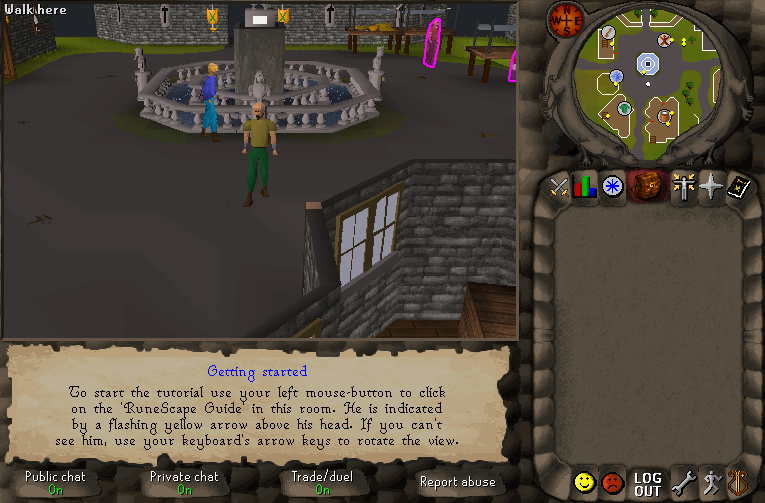
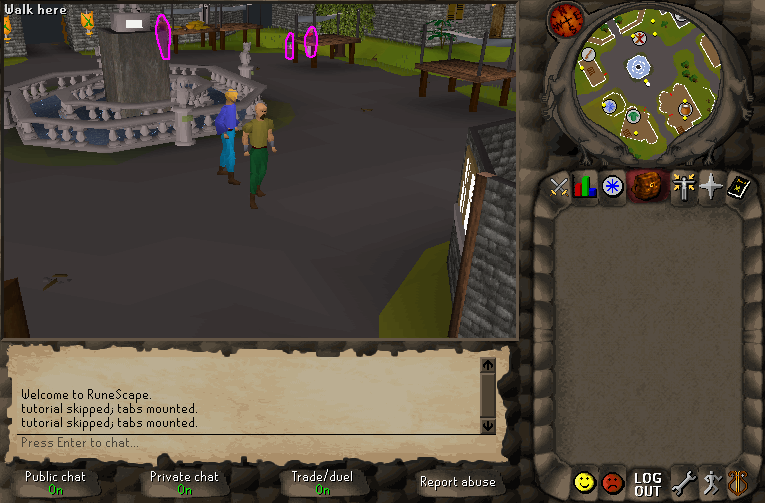
EH-LIVE-TAG-OFFSCREEN: give a live drive a camera it can aim
The entity highlighter's cs1live capture tagged three LostCity npcs and
photographed two of them, the second cut by the viewport's right edge at
x=515 with eight columns inside it. The job comment argued the three
"cannot leave the forward view" from their wanderrange, which bounds
where an npc WALKS and says nothing about where the camera LOOKS.

The plugin is not at fault and neither is the bridge. Re-run with
TORIRS_TRACE_PLUGIN_WORLD=1 and all THREE hulls are emitted on every
frame, on three distinct scene elements, 16-30 segments each; two of
them simply project past the right edge. The trio stands 11-12 tiles
north and 5-8 tiles EAST of the only teleport that lane has, and the
follow camera resets to yaw 0, due north.

No drive could say otherwise. TORIRS_SIM_CAMERA_YAW existed and was
dead: it runs in the pre-loop harness block, so before login, before the
tutorial skip and before the teleport; and it wrote world_camera.yaw,
which the follow step rebuilds from orbit.yaw on the next cycle, so even
where it fired it was one render deep. It now parks orbit.yaw with the
yaw velocity zeroed, and TORIRS_SIM_CAMERA_YAW_FRAME applies the park
from a main-loop frame -- the only placement a lane that has to log in
can use. With the frame variable set the pre-loop block stands down, so
the two never both spend frames on a clock that starts at 1 ms.

Measured, viewport 4,4 512x334:

  before  2 hulls  x 423-440 (margin r 75)  x 508-515 (margin r 0)
[…]

diff --git a/src/main.c b/src/main.c
@@ -2537,6 +2537,67 @@ frame_loop_step(void)
                 }
             }
 
+            /*
+             * TORIRS_SIM_CAMERA_YAW="<0..2047>" with
+             * TORIRS_SIM_CAMERA_YAW_FRAME=N: park the follow camera at a known
+             * yaw from loop frame N on, so a world overlay can be photographed
+             * with its subject IN the viewport instead of beside it.
+             *
+             * The yaw lives in `orbit`, not in world_camera: the follow step
+             * rebuilds world_camera.yaw from orbit.yaw every cycle, so a park
+             * written to world_camera survives exactly one render. The
+             * pre-loop block below got away with that because it renders and
+             * exits; from inside the loop it would simply not turn the camera.
+             * yaw_velocity goes to zero with it -- the reference's camera
+             * coasts, and a park that leaves a velocity behind drifts away
+             * from the angle the drive asked for over the frames that follow.
+             *
+             * This is the lever the entity-highlighter's live capture needed
+             * and did not have. Its three tagged npcs stand 11-12 tiles north
+             * and 5-8 tiles east of the only teleport that lane can reach;
+             * `wanderrange` keeps them from walking off, which is what the job
+             * comment argued, but nothing kept them in FRONT of a camera whose
+             * reset yaw looks north -- two of the three projected past the
+             * viewport's right edge and the drive had no way to say otherwise.
+             */
+            {
+                static int yaw_done = 0;
+                static long yaw_frame = -1;
+                if( yaw_frame < 0 )
+                {
+                    char const* at = getenv("TORIRS_SIM_CAMERA_YAW_FRAME");
+                    yaw_frame = at ? strtol(at, NULL, 0) : 1;
+                    if( yaw_frame < 1 )
+                        yaw_frame = 1;
+                }
+                if( !yaw_done && getenv("TORIRS_SIM_CAMERA_YAW") &&
+                    getenv("TORIRS_SIM_CAMERA_YAW_FRAME") && frame_count >= yaw_frame )
+                {
+                    yaw_done = 1;
+                    app.orbit.yaw = ToriDraw_NormalizeAngle(
+                        (int)strtol(getenv("TORIRS_SIM_CAMERA_YAW"), NULL, 0));
+                    app.orbit.yaw_velocity = 0;
+                    /*
+                     * Yaw only, and the pitch is deliberately NOT a second
+                     * knob beside it. Measured on this lane: the reset pitch
+                     * of 148 puts the highlighter's trio at y=13 and a park at
+                     * 190 puts them off the top of the viewport at y=4, so the
+                     * pitch band's flat end (128) is worth about four pixels
+                     * of headroom and its steep end throws the subject away
+                     * entirely. A knob that cannot move the picture in the
+                     * direction a drive needs is a knob nobody can use.
+                     *
+                     * REPORT for the same reason sim_cmd is: a drive that
+                     * asked for an angle wants the angle in the optimized
+                     * build's log, not only in a debug one.
+                     */
+                    TORIRS_REPORT(
+                        "sim_camera_yaw: frame %ld parked at %d\n",
+                        (long)frame_count,
+                        app.orbit.yaw);
+                }
+            }
+
             /* TORIRS_SIM_CLICK_AT="frame,x,y[,right][;frame,x,y...]":
              * inject a mouse click at the given main-loop frame — the
              * live-server harness (the pre-loop SIM_MOUSE_CLICK path runs
@@ -5577,8 +5638,15 @@ main(
 
     /* TORIRS_SIM_CAMERA_YAW=<0..2047>: park the camera at a yaw and run a frame,
      * so the compass/minimap can be screenshotted at known angles. The in-app
-     * yaw keys are the arrows, which the key sim above cannot send. */
-    if( getenv("TORIRS_SIM_CAMERA_YAW") )
+     * yaw keys are the arrows, which the key sim above cannot send.
+     *
+     * TORIRS_SIM_CAMERA_YAW_FRAME says the drive wants the park applied from a
+     * MAIN-LOOP frame instead -- the only placement a lane that has to log in,
+     * skip a tutorial and teleport can use -- and that block owns the variable
+     * then. Running both would spend two extra frames here on a clock that
+     * starts at 1 ms, which on a live lane is the session teardown the shots
+     * README dates its broken hover captures by. */
+    if( getenv("TORIRS_SIM_CAMERA_YAW") && !getenv("TORIRS_SIM_CAMERA_YAW_FRAME") )
     {
         struct LibToriRS_Input yaw_storage;
         struct LibToriRS_Input* yaw_input = LibToriRS_Input_Init(&yaw_storage, 0);
@@ -5589,8 +5657,15 @@ main(
         {
             if( frame == 1 )
             {
-                app.world_camera.yaw =
+                /* Both, and orbit is the one that lasts: the follow step
+                 * rebuilds world_camera.yaw from orbit.yaw, so a park written
+                 * only to world_camera is gone by the next cycle. This path
+                 * renders immediately and never saw that, which is exactly why
+                 * the in-loop twin above could not reuse it. */
+                app.orbit.yaw =
                     ToriDraw_NormalizeAngle((int)strtol(getenv("TORIRS_SIM_CAMERA_YAW"), NULL, 0));
+                app.orbit.yaw_velocity = 0;
+                app.world_camera.yaw = app.orbit.yaw;
                 TORIRS_LOG("sim_camera_yaw: %d\n", app.world_camera.yaw);
             }
             LibToriRS_Input_Begin(yaw_input, yaw_ms);

diff --git a/tools/porcelain_gate/shots/hull_margin.py b/tools/porcelain_gate/shots/hull_margin.py
@@ -1,0 +1,124 @@
+#!/usr/bin/env python3
+"""Are the highlighter's hulls IN the picture, and by how much?
+
+    python3 hull_margin.py <shot.png> --expect 3 [--colour '#FF00FF']
+                           [--viewport x,y,w,h] [--min-margin 4]
+
+The entity highlighter's live capture tagged three npcs and photographed two,
+and the second of those two was cut by the viewport's right edge with eight
+columns inside it. Nothing in the run said so. The config write reported
+applied=1 -- tagging a species that is not in front of you is a perfectly valid
+tag -- the plugin emitted three hulls every frame, and the picture, read whole
+at 765x503, looked like a highlighter that works. It took a connected-component
+scan to find that one of the three had never been in frame at all.
+
+So the claim a capture of a world overlay makes is not "there is ink". It is
+"there are N closed shapes and every one of them is clear of the edges", and
+that is a measurement, not an impression:
+
+  * an exact-colour mask, because the outline is drawn at the plugin's own
+    configured colour and nothing else in a scene is #FF00FF;
+  * 8-connected components, because a hull is one closed ring;
+  * the margin from each side of the WORLD VIEWPORT, not from the window. A
+    hull can sit inside a 765x503 frame and still be cut, because the 2004
+    frame's viewport ends at x=515 and the sidebar starts there.
+
+A cluster that touches an edge is reported as CUT and fails, because an outline
+whose closing edge was clipped away is exactly what the defect looked like.
+
+The viewport rect is an argument and has no default that fits every lane: the
+2004 fixed frame is 4,4,512,334 and the resizable toplevels are not. Read it
+off the lane rather than assuming this one.
+"""
+
+import argparse
+import sys
+
+from PIL import Image
+
+# The 2004 fixed frame's world viewport -- the lane this was written for.
+CS1_VIEWPORT = (4, 4, 512, 334)
+
+
+def clusters(image, colour):
+    """8-connected components of the exact-colour mask."""
+    width, height = image.size
+    pixels = image.load()
+    mask = {
+        (x, y)
+        for y in range(height)
+        for x in range(width)
+        if pixels[x, y] == colour
+    }
+    seen = set()
+    found = []
+    for start in mask:
+        if start in seen:
+            continue
+        stack = [start]
+        seen.add(start)
+        component = []
+        while stack:
+            cell = stack.pop()
+            component.append(cell)
+            for dx in (-1, 0, 1):
+                for dy in (-1, 0, 1):
+                    neighbour = (cell[0] + dx, cell[1] + dy)
+                    if neighbour in mask and neighbour not in seen:
+                        seen.add(neighbour)
+                        stack.append(neighbour)
+        xs = [cell[0] for cell in component]
+        ys = [cell[1] for cell in component]
+        found.append((len(component), min(xs), max(xs), min(ys), max(ys)))
+    found.sort(key=lambda entry: (entry[1], entry[3]))
+    return found
+
+
+def parse_colour(text):
+    text = text.lstrip("#")
+    return tuple(int(text[i:i + 2], 16) for i in (0, 2, 4))
+
+
+def main(argv):
+    parser = argparse.ArgumentParser(description=__doc__)
+    parser.add_argument("shot")
+    parser.add_argument("--expect", type=int, required=True,
+                        help="how many hulls the drive tagged")
+    parser.add_argument("--colour", default="#FF00FF")
+    parser.add_argument("--viewport", default=",".join(str(v) for v in CS1_VIEWPORT),
+                        help="x,y,w,h of the world viewport on this lane")
+    parser.add_argument("--min-margin", type=int, default=4,
+                        help="pixels a hull must keep clear of every viewport edge")
+    args = parser.parse_args(argv)
+
+    view_x, view_y, view_w, view_h = (int(v) for v in args.viewport.split(","))
+    right, bottom = view_x + view_w - 1, view_y + view_h - 1
+
+    image = Image.open(args.shot).convert("RGB")
+    found = clusters(image, parse_colour(args.colour))
+
+    print(f"{args.shot} {image.size[0]}x{image.size[1]} "
+          f"viewport {view_x},{view_y} {view_w}x{view_h}")
+    failures = []
+    for size, x0, x1, y0, y1 in found:
+        margins = (x0 - view_x, right - x1, y0 - view_y, bottom - y1)
+        worst = min(margins)
+        state = "CUT" if worst < 0 else ("THIN" if worst < args.min_margin else "ok")
+        print(f"  {size:5d} px  x {x0}-{x1}  y {y0}-{y1}  "
+              f"margin l/r/t/b {margins[0]}/{margins[1]}/{margins[2]}/{margins[3]}  {state}")
+        if state != "ok":
+            failures.append(f"a hull at x {x0}-{x1} y {y0}-{y1} is {worst} px from an edge")
+
+    if len(found) != args.expect:
+        failures.append(f"expected {args.expect} hull(s), found {len(found)}")
+    if failures:
+        for failure in failures:
+            print(f"FAIL: {failure}")
+        return 1
+    print(f"OK: {len(found)} hull(s), all clear of the viewport by "
+          f"{args.min_margin} px or more")
+    return 0
+
+
+if __name__ == "__main__":
+    sys.exit(main(sys.argv[1:]))

diff --git a/src/render/test/world_camera_orbit_test.c b/src/render/test/world_camera_orbit_test.c
@@ -288,6 +288,55 @@ test_yaw_wraps_and_pitch_does_not(void)
 }
 
 static void
+test_a_parked_angle_holds_for_the_rest_of_a_capture(void)
+{
+    struct WorldCameraOrbit parked;
+    struct WorldCameraOrbit coasting;
+    struct WorldCameraLimits const limits = osrs_limits();
+    struct WorldCameraKeys const keys = no_keys();
+    int i;
+
+    printf("TEST: an angle parked with no velocity holds; one parked over a velocity does not\n");
+
+    /*
+     * The property TORIRS_SIM_CAMERA_YAW depends on, and the reason it writes
+     * `orbit` and zeroes the velocity rather than writing world_camera.yaw.
+     *
+     * A capture parks the camera at a chosen angle hundreds of frames before
+     * the frame it photographs -- the entity highlighter's live shot parks at
+     * loop frame 1500 and the BMP is written at 2200 -- so "the camera is
+     * where the drive put it" is a claim about seven hundred cycles, not about
+     * the cycle after the write. Nothing here is a still frame can check: a
+     * camera that creeps two units a cycle looks exactly like a camera that
+     * does not, until the subject leaves the viewport.
+     */
+    WorldCameraOrbit_Reset(&parked);
+    parked.yaw = 1878;
+    parked.pitch = 148;
+    for( i = 0; i < 700; i++ )
+        WorldCameraOrbit_StepAngles(&parked, &keys, &limits);
+    CHECK(parked.yaw == 1878, "a parked yaw drifted to %d over 700 cycles", parked.yaw);
+    CHECK(parked.pitch == 148, "a parked pitch drifted to %d over 700 cycles", parked.pitch);
+
+    /*
+     * And the negative control that says the zeroing is load-bearing: the same
+     * park with a turn still coasting under it ends up somewhere else
+     * entirely, because a released key halves what is left rather than
+     * dropping it. A park that inherited the player's last camera nudge would
+     * photograph a different angle every run.
+     */
+    WorldCameraOrbit_Reset(&coasting);
+    coasting.yaw = 1878;
+    coasting.pitch = 148;
+    coasting.yaw_velocity = 23;
+    for( i = 0; i < 700; i++ )
+        WorldCameraOrbit_StepAngles(&coasting, &keys, &limits);
+    CHECK(
+        coasting.yaw != parked.yaw,
+        "a coasting yaw_velocity changed nothing -- the park's zeroing is not doing anything");
+}
+
+static void
 test_the_terrain_clamp_rises_faster_than_it_falls(void)
 {
     struct WorldCameraOrbit rising;
@@ -545,6 +594,7 @@ main(void)
     test_a_held_key_accelerates_and_a_released_one_coasts();
     test_the_two_axes_and_their_directions();
     test_yaw_wraps_and_pitch_does_not();
+    test_a_parked_angle_holds_for_the_rest_of_a_capture();
     test_the_terrain_clamp_rises_faster_than_it_falls();
     test_the_clamp_only_ever_raises_the_pitch();
     test_the_distance();
